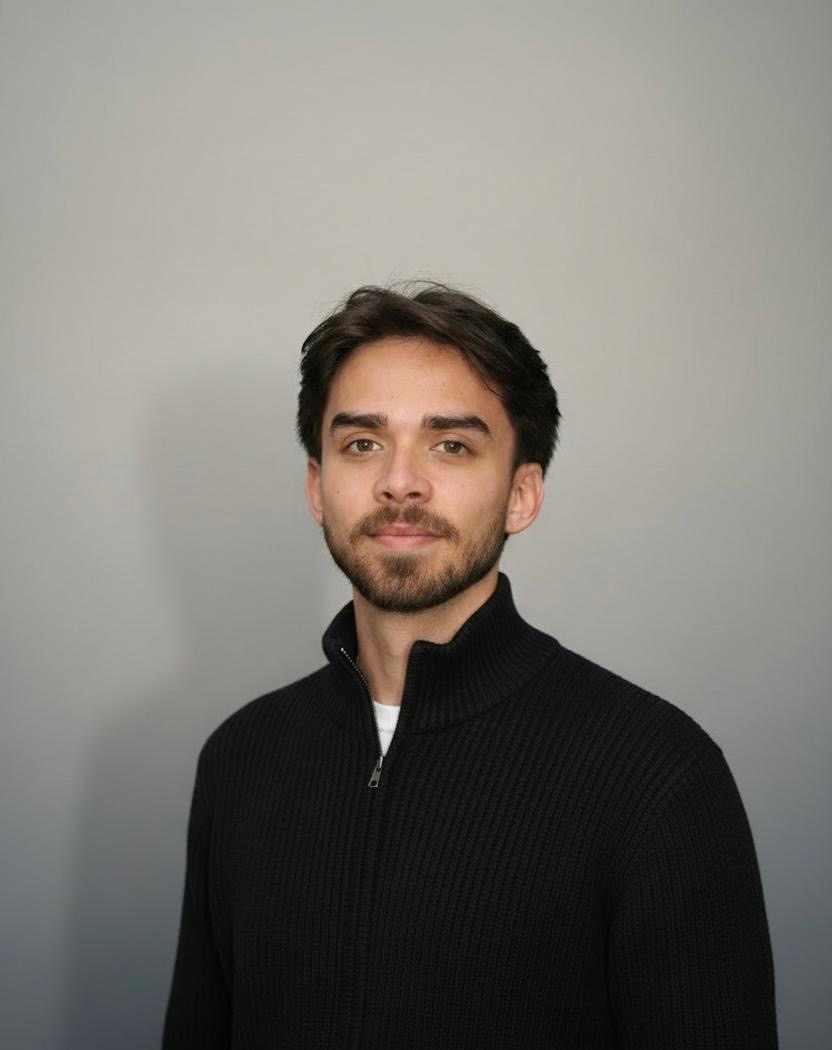
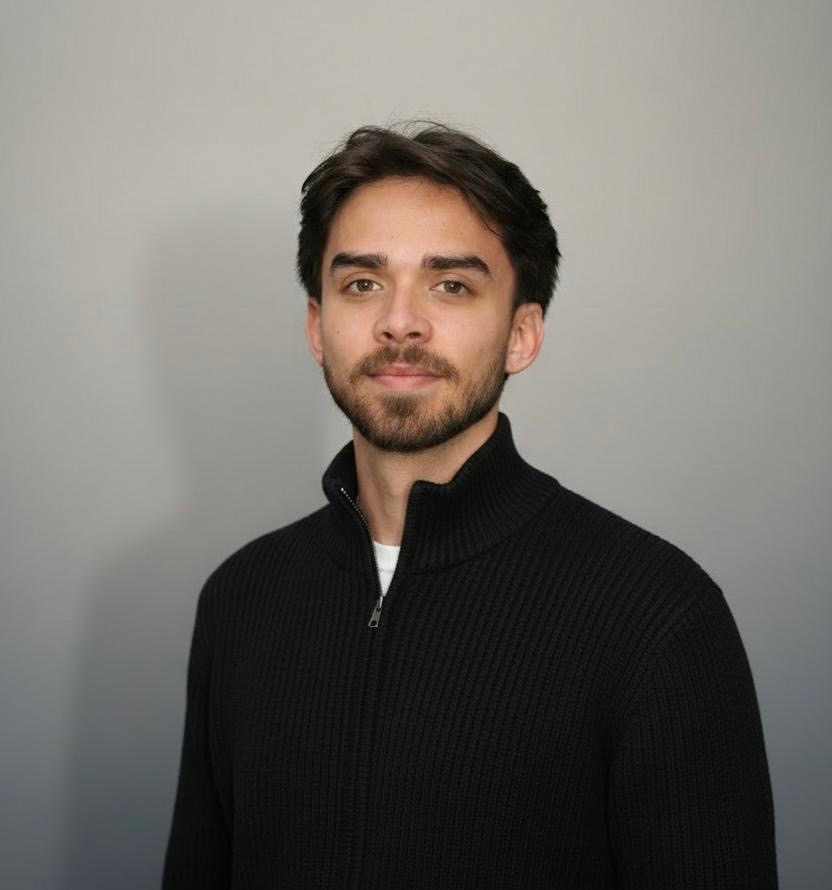
Add scrolling tools marquee, tidy panel footer, re-center Over ons photo
- Add a full-width tools marquee bar under the hero (moves left→right)
- Remove the system chips from the agent panel; show a compact LIVE status
- Crop headroom from the Over ons photo so Jesse is better centered

diff --git a/app/components/HeroConcept.tsx b/app/components/HeroConcept.tsx
@@ -19,7 +19,8 @@ const TASKS = [
   "Werkbon verwerkt",
 ];
 
-const SYSTEMS = ["HubSpot", "Make", "Zapier", "Slack", "Moneybird", "Microsoft 365"];
+/* Tools shown in the scrolling marquee under the hero. */
+const TOOLS = ["OpenAI", "Claude", "Make", "Zapier", "n8n", "HubSpot", "Pipedrive", "Exact", "AFAS", "Moneybird", "Slack", "Microsoft 365", "Google Workspace", "Supabase", "Stripe", "WhatsApp"];
 
 /* Werkwijze — 4 steps, copy matches the live leadzsystems.nl site. */
 const WERKWIJZE = [
@@ -400,14 +401,27 @@ export default function HeroConcept() {
                   <span className="lz-counter-num">{count.toLocaleString("nl-NL")}</span>
                   <span className="lz-counter-label">taken vandaag afgehandeld</span>
                 </div>
-                <div className="lz-systems" aria-label="Gekoppelde systemen">
-                  {SYSTEMS.map((s) => (<span key={s} className="lz-chip">{s}</span>))}
-                </div>
+                <span className="lz-panel-status"><span className="lz-live-dot" aria-hidden />live</span>
               </div>
             </div>
           </div>
         </div>
       </header>
+
+      {/* ── Tools marquee ── */}
+      <section className="lz-marquee-band" aria-label="Tools waarmee we koppelen">
+        <p className="lz-marquee-label">Koppelt naadloos met de tools die je al gebruikt</p>
+        <div className="lz-marquee">
+          <div className="lz-marquee-track">
+            {[...TOOLS, ...TOOLS].map((t, i) => (
+              <span className="lz-tool" key={i}>
+                <span className="lz-tool-dot" aria-hidden />
+                {t}
+              </span>
+            ))}
+          </div>
+        </div>
+      </section>
 
       {/* ── Diensten ── */}
       <section id="diensten" className="lz-section">
@@ -484,7 +498,7 @@ export default function HeroConcept() {
       <section id="over-ons" className="lz-section">
         <div className="lz-about lz-reveal">
           <div className="lz-about-photo">
-            <Image src="/jesse-color.png" alt="Jesse, oprichter van Leadz Systems" width={832} height={1050} className="lz-about-img" sizes="(max-width:900px) 100vw, 380px" />
+            <Image src="/jesse-color.png" alt="Jesse, oprichter van Leadz Systems" width={832} height={890} className="lz-about-img" sizes="(max-width:900px) 100vw, 380px" />
             <div className="lz-about-photo-tint" aria-hidden />
           </div>
           <div className="lz-about-text">
@@ -839,8 +853,18 @@ const CSS = `
 .lz-counter{ display:flex; flex-direction:column; gap:2px; }
 .lz-counter-num{ font-family:var(--font-bricolage),sans-serif; font-weight:800; font-size:22px; letter-spacing:-.01em; color:var(--paper); font-variant-numeric:tabular-nums; }
 .lz-counter-label{ font-size:11.5px; color:var(--fog-2); }
-.lz-systems{ display:flex; flex-wrap:wrap; gap:6px; justify-content:flex-end; max-width:56%; }
+.lz-panel-status{ display:inline-flex; align-items:center; gap:7px; font-family:var(--font-geist-mono),monospace; font-size:12px; letter-spacing:.08em; text-transform:uppercase; color:var(--fog-2); }
 .lz-chip{ font-family:var(--font-geist-mono),monospace; font-size:11px; color:var(--fog); padding:4px 9px; border:1px solid var(--line); border-radius:7px; background:rgba(255,255,255,.02); }
+
+/* ── Tools marquee (full-width bar under the hero) ── */
+.lz-marquee-band{ position:relative; z-index:1; padding:var(--sp-5) 0; border-top:1px solid var(--line); border-bottom:1px solid var(--line); }
+.lz-marquee-label{ text-align:center; font-family:var(--font-geist-mono),monospace; font-size:12px; letter-spacing:.14em; text-transform:uppercase; color:var(--fog-2); margin-bottom:var(--sp-4); padding:0 var(--edge); }
+.lz-marquee{ overflow:hidden; -webkit-mask-image:linear-gradient(90deg, transparent, #000 7%, #000 93%, transparent); mask-image:linear-gradient(90deg, transparent, #000 7%, #000 93%, transparent); }
+.lz-marquee-track{ display:flex; align-items:center; width:max-content; animation:lzMarquee 48s linear infinite; }
+.lz-marquee:hover .lz-marquee-track{ animation-play-state:paused; }
+.lz-tool{ display:inline-flex; align-items:center; gap:16px; padding:0 26px; font-family:var(--font-bricolage),sans-serif; font-weight:700; font-size:1.28rem; letter-spacing:-.01em; color:var(--fog); white-space:nowrap; }
+.lz-tool-dot{ width:5px; height:5px; border-radius:2px; background:var(--iris); transform:rotate(45deg); }
+@keyframes lzMarquee{ from{ transform:translateX(-50%); } to{ transform:translateX(0); } }
 
 /* ── Section scaffold ── */
 .lz-section{ position:relative; z-index:1; max-width:var(--maxw); margin:0 auto; padding:var(--sp-7) var(--edge); }
@@ -1000,11 +1024,6 @@ const CSS = `
 @media(max-width:480px){ .lz-eyebrow{ font-size:11px; letter-spacing:.08em; padding:6px 12px; } }
 /* Clear the floating WhatsApp button so it never overlaps footer text on small screens */
 @media(max-width:620px){ .lz-footer{ padding-bottom:92px; } }
-/* Panel footer: stack counter above the system chips so nothing looks lopsided on mobile */
-@media(max-width:520px){
-  .lz-panel-foot{ flex-direction:column; align-items:flex-start; gap:16px; }
-  .lz-systems{ justify-content:flex-start; max-width:100%; }
-}
 
 /* ── Light theme ── keeps amber accent; flips base surfaces, text, lines, shadows ── */
 .lz-light{
@@ -1052,6 +1071,7 @@ const CSS = `
   .lz-anim,.lz-reveal{ opacity:1; transform:none; animation:none; transition:none; }
   .lz-panel,.lz-live-dot,.lz-spinner,.lz-log-line{ animation:none; }
   .lz-reelbox iframe{ animation:none; }
+  .lz-marquee-track{ animation:none; }
   .lz-btn,.lz-btn-arrow,.lz-nav-link,.lz-card,.lz-work,.lz-faq-plus,.lz-wa{ transition:none; }
   .lz-burger-bar,.lz-mobile-menu{ transition:none; }
 }